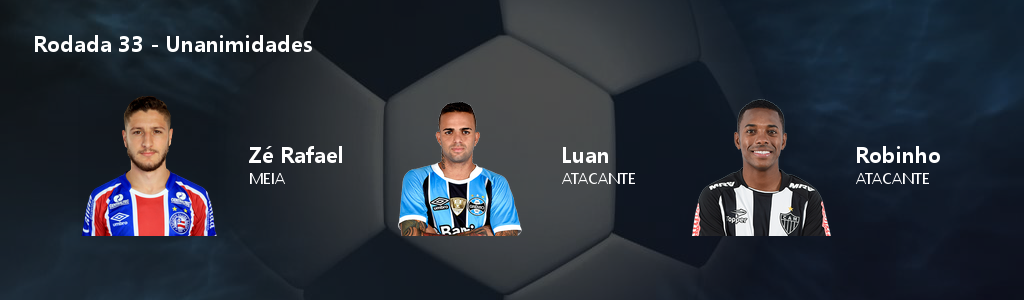
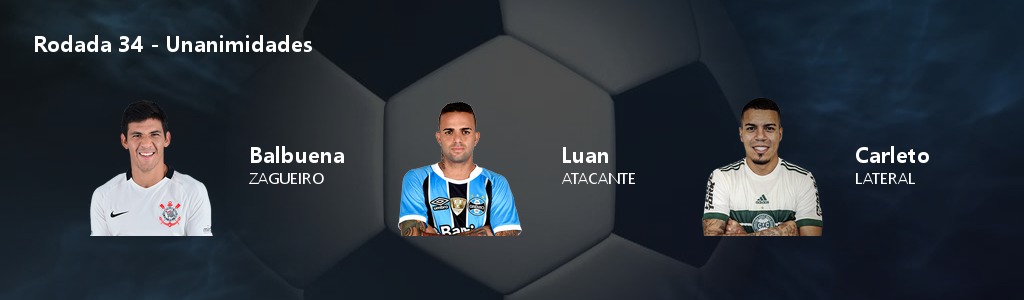
pictures update for round 34

diff --git a/templates/header.html b/templates/header.html
@@ -35,21 +35,21 @@
     <!-- Wrapper for slides -->
     <div class="carousel-inner" role="listbox">
       <div class="item active">
-          <img src="images/caurosel1.png?v=1.0.7" alt="Image">
+          <img src="images/caurosel1.png?v=1.0.8" alt="Image">
         <div class="carousel-caption">
           
         </div>      
       </div>
 
       <div class="item">
-          <img src="images/caurosel2.png?v=1.0.7" alt="Image">
+          <img src="images/caurosel2.png?v=1.0.8" alt="Image">
         <div class="carousel-caption">
           
         </div>      
       </div>
         
       <div class="item">
-          <a href="matamata.php"><img src="images/caurosel3.png?v=1.0.7" alt="Image"></a>
+          <a href="matamata.php"><img src="images/caurosel3.png?v=1.0.8" alt="Image"></a>
         <div class="carousel-caption">
           
         </div>      
